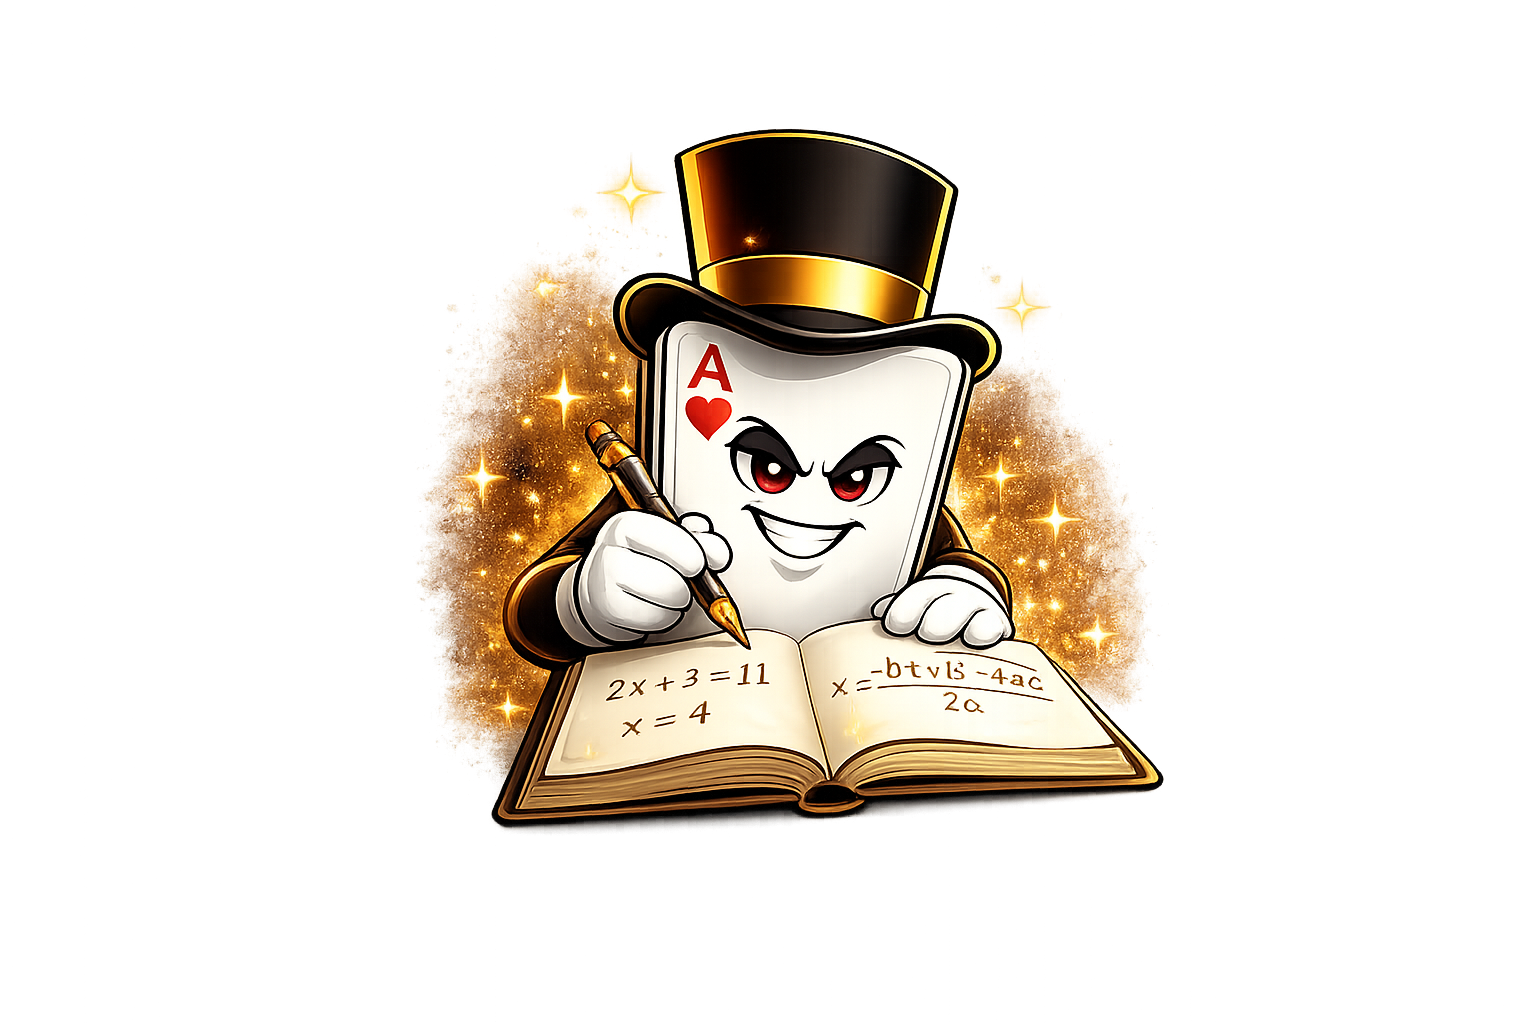
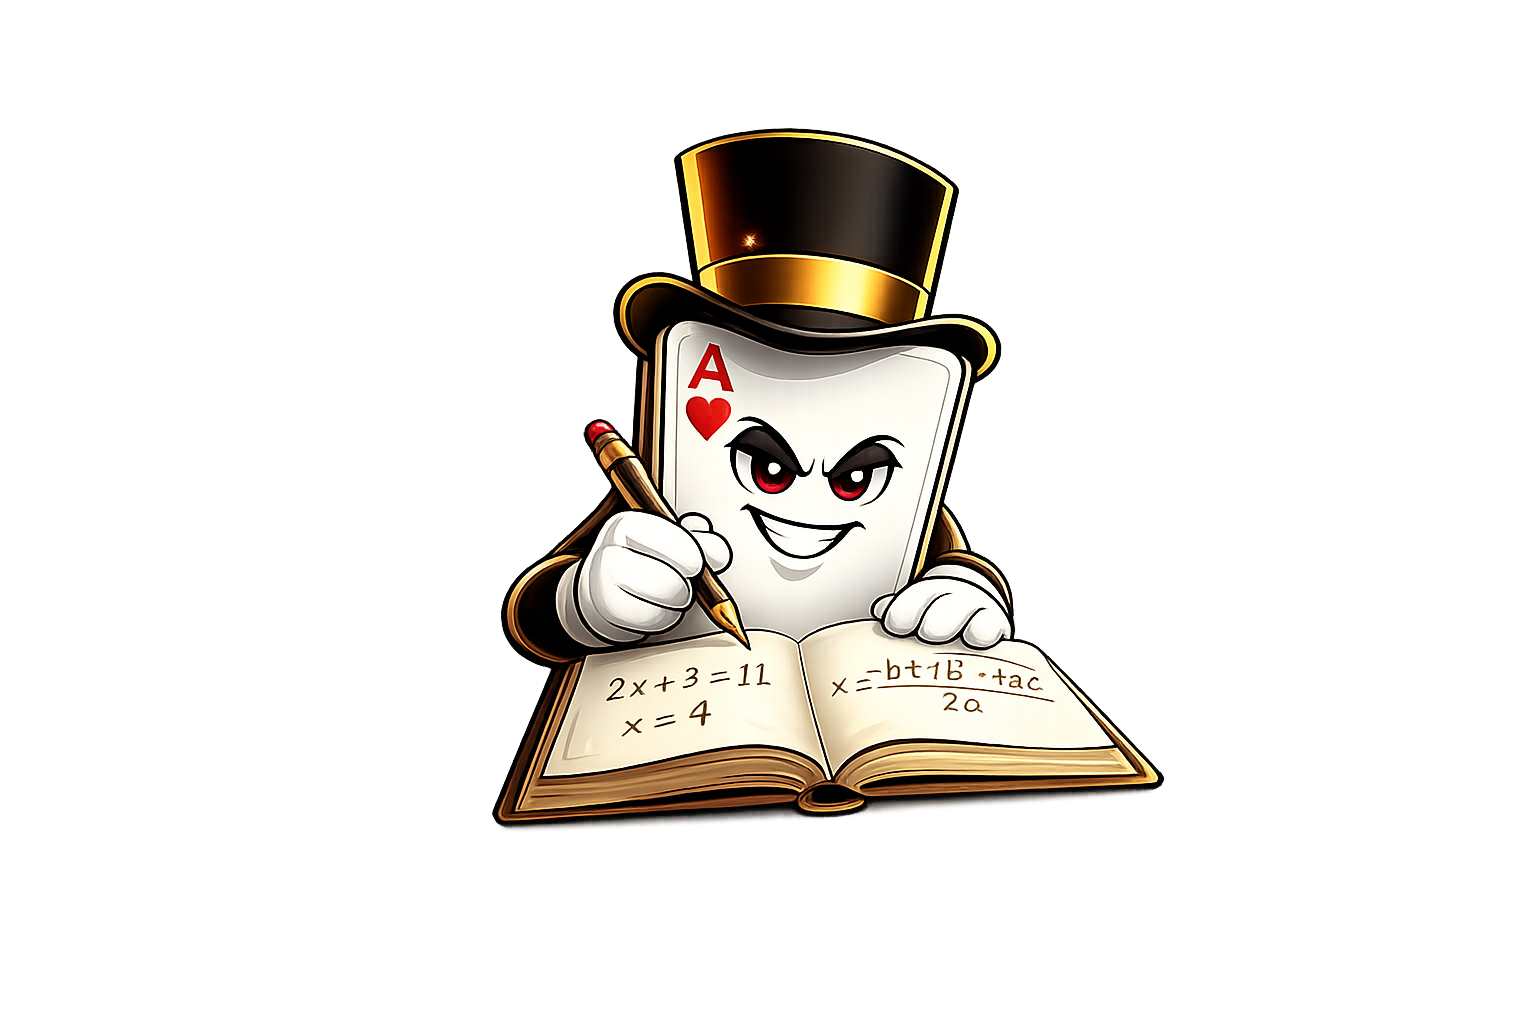
Add files via upload

diff --git a/index.html b/index.html
@@ -123,6 +123,7 @@ body{background:var(--dark);color:var(--text);font-family:'Tajawal',sans-serif;m
 .page-section.active { display: block !important; padding-bottom: 0; }
 #page_home.active { display: flex !important; }
 #page_auth.active { display: flex !important; flex-direction: column; }
+#page_sessions.active { display: flex !important; flex-direction: column; }
 #page_sessions { display: none; }
 #page_sessions.active { display: block !important; }
 
@@ -1769,7 +1770,7 @@ window.addEventListener('load', function(){
         <div style="font-family:'Cairo',sans-serif;font-weight:900;font-size:12px;color:var(--gold);margin-bottom:2px;">قيد الهاند الذكي</div>
         <div style="font-family:'Tajawal',sans-serif;font-size:11px;color:var(--muted);margin-bottom:1px;">جميع الحقوق محفوظة</div>
         <div style="font-family:'Tajawal',sans-serif;font-size:11px;color:#ffffff;margin-bottom:3px;">تصميم سلطان بن طوق المري</div>
-        <span style="font-size:10px;color:var(--red);">V5.3.2</span>
+        <span style="font-size:10px;color:var(--red);">V5.3.3</span>
         <span style="font-size:10px;color:var(--red);"> · 2026</span>
       </div>
     </div>
@@ -1794,7 +1795,7 @@ window.addEventListener('load', function(){
         <div style="font-family:'Cairo',sans-serif;font-weight:900;font-size:12px;color:var(--gold);margin-bottom:2px;">قيد الهاند الذكي</div>
         <div style="font-family:'Tajawal',sans-serif;font-size:11px;color:var(--muted);margin-bottom:1px;">جميع الحقوق محفوظة</div>
         <div style="font-family:'Tajawal',sans-serif;font-size:11px;color:#ffffff;margin-bottom:3px;">تصميم سلطان بن طوق المري</div>
-        <span style="font-size:10px;color:var(--red);">V5.3.2</span>
+        <span style="font-size:10px;color:var(--red);">V5.3.3</span>
         <span style="font-size:10px;color:var(--red);"> · 2026</span>
       </div>
     </div>
@@ -1815,7 +1816,7 @@ window.addEventListener('load', function(){
         <div style="font-family:'Cairo',sans-serif;font-weight:900;font-size:12px;color:var(--gold);margin-bottom:2px;">قيد الهاند الذكي</div>
         <div style="font-family:'Tajawal',sans-serif;font-size:11px;color:var(--muted);margin-bottom:1px;">جميع الحقوق محفوظة</div>
         <div style="font-family:'Tajawal',sans-serif;font-size:11px;color:#ffffff;margin-bottom:3px;">تصميم سلطان بن طوق المري</div>
-        <span style="font-size:10px;color:var(--red);">V5.3.2</span>
+        <span style="font-size:10px;color:var(--red);">V5.3.3</span>
         <span style="font-size:10px;color:var(--red);"> · 2026</span>
       </div>
     </div>
@@ -1850,7 +1851,7 @@ window.addEventListener('load', function(){
   <div style="text-align:center;">
     <div style="font-family:'Tajawal',sans-serif;font-size:11px;color:var(--muted);margin-bottom:2px;">جميع الحقوق محفوظة</div>
     <div style="font-family:'Tajawal',sans-serif;font-size:11px;color:#ffffff;margin-bottom:4px;">تصميم سلطان بن طوق المري</div>
-    <span style="font-size:10px;color:var(--red);">V5.3.2</span>
+    <span style="font-size:10px;color:var(--red);">V5.3.3</span>
     <span style="font-size:10px;color:var(--red);"> · 2026</span>
   </div>
 </div>
@@ -2291,14 +2292,14 @@ function toggleInfoBox(){
 </div><!-- end results_data_section -->
 
 <!-- رسالة الزائر في النتائج -->
-<div id="results_guest_msg" style="display:none;text-align:center;padding:40px 0;">
-  <div style="font-size:36px;margin-bottom:12px;">🔒</div>
+<div id="results_guest_msg" style="display:none;text-align:center;padding:24px 0 40px;">
+  <div style="width:100%;display:flex;justify-content:center;padding-bottom:10px;">
+    <img src="./character-book.png" alt="" style="width:min(62vw,260px);height:auto;object-fit:contain;filter:drop-shadow(0 6px 20px rgba(212,168,67,0.25));">
+  </div>
+  <div style="font-size:32px;margin-bottom:10px;">🔒</div>
   <div style="font-family:'Cairo',sans-serif;font-weight:900;font-size:16px;color:var(--gold);margin-bottom:8px;">سجّل دخولك لعرض النتائج</div>
   <div style="font-family:'Tajawal',sans-serif;font-size:13px;color:#888;margin-bottom:20px;line-height:1.7;">لوحة المحترفين والإحصائيات متاحة للمسجّلين فقط</div>
   <button onclick="goToAuthLogin()" class="gold-btn-press btn-premium-fx" style="background:linear-gradient(135deg,rgba(212,168,67,0.22),rgba(212,168,67,0.10));border:2px solid rgba(212,168,67,0.65);border-radius:14px;padding:12px 28px;color:var(--gold);font-family:'Cairo',sans-serif;font-weight:900;font-size:14px;cursor:pointer;position:relative;overflow:hidden;">تسجيل الدخول</button>
-  <div style="width:100%;display:flex;justify-content:center;padding-top:22px;">
-    <img src="./character-book.png" alt="" style="width:min(80vw,340px);height:auto;object-fit:contain;filter:drop-shadow(0 6px 20px rgba(212,168,67,0.25));">
-  </div>
 </div>
 
 </div><!-- end page_results -->
@@ -2435,7 +2436,7 @@ function toggleInfoBox(){
             <div style="font-family:'Tajawal',sans-serif;font-size:7px;color:var(--muted);margin-bottom:1px;">جميع الحقوق محفوظة</div>
             <div style="font-family:'Tajawal',sans-serif;font-size:7px;color:rgba(255,255,255,0.5);margin-bottom:3px;">تصميم سلطان بن طوق المري</div>
             <div style="height:1px;background:rgba(200,168,75,0.5);margin-bottom:3px;"></div>
-            <div style="font-size:7px;color:var(--red);">V5.3.2 · 2026</div>
+            <div style="font-size:7px;color:var(--red);">V5.3.3 · 2026</div>
           </div>
 
           <!-- وسط: شعار فقط -->
@@ -2485,7 +2486,7 @@ function toggleInfoBox(){
       <div style="text-align:center;">
         <div style="font-family:'Tajawal',sans-serif;font-size:11px;color:var(--muted);margin-bottom:2px;">جميع الحقوق محفوظة</div>
         <div style="font-family:'Tajawal',sans-serif;font-size:11px;color:#ffffff;margin-bottom:4px;">تصميم سلطان بن طوق المري</div>
-        <span style="font-size:10px;color:var(--red);">V5.3.2</span>
+        <span style="font-size:10px;color:var(--red);">V5.3.3</span>
         <span style="font-size:10px;color:var(--red);"> · 2026</span>
       </div>
     </div>
@@ -2635,12 +2636,15 @@ function toggleInfoBox(){
 </div><!-- end page_auth -->
 
 <!-- ══ صفحة السجل ══ -->
-<div class="page-section" id="page_sessions">
+<div class="page-section" id="page_sessions" style="display:flex;flex-direction:column;box-sizing:border-box;min-height:calc(100vh - 84px - env(safe-area-inset-bottom, 0px));min-height:calc(100dvh - 84px - env(safe-area-inset-bottom, 0px));padding-bottom:10px;">
 <div class="hdr"><div class="hdr-title">السجل</div><div class="hdr-line"></div></div>
 <div class="session-title" id="session_title_display_sess" style="display:none;padding-bottom:10px;"></div>
 
 <!-- محتوى السجل للمسجّل -->
-<div id="sessions_data_section">
+<div id="sessions_data_section" style="display:flex;flex-direction:column;flex:1;">
+  <div style="width:100%;display:flex;justify-content:center;padding:0 0 10px;">
+    <img src="./character-book.png" alt="" style="width:min(50vw,200px);height:auto;object-fit:contain;filter:drop-shadow(0 6px 20px rgba(212,168,67,0.25));">
+  </div>
   <div style="background:var(--card);border-radius:18px;padding:14px 10px 8px;margin-bottom:10px;" class="gold-frame">
     <div class="gf-corner gf-tr"></div><div class="gf-corner gf-tl"></div>
     <div class="gf-corner gf-br"></div><div class="gf-corner gf-bl"></div>
@@ -2702,14 +2706,14 @@ function toggleInfoBox(){
 </div><!-- end sessions_data_section -->
 
 <!-- رسالة الزائر في السجل -->
-<div id="sessions_guest_msg" style="display:none;text-align:center;padding:40px 0;">
-  <div style="font-size:36px;margin-bottom:12px;">🔒</div>
+<div id="sessions_guest_msg" style="display:none;flex:1;flex-direction:column;align-items:center;justify-content:center;text-align:center;padding:24px 0 10px;">
+  <div style="width:100%;display:flex;justify-content:center;padding-bottom:10px;">
+    <img src="./character-book.png" alt="" style="width:min(62vw,260px);height:auto;object-fit:contain;filter:drop-shadow(0 6px 20px rgba(212,168,67,0.25));">
+  </div>
+  <div style="font-size:32px;margin-bottom:10px;">🔒</div>
   <div style="font-family:'Cairo',sans-serif;font-weight:900;font-size:16px;color:var(--gold);margin-bottom:8px;">سجّل دخولك لعرض السجل</div>
   <div style="font-family:'Tajawal',sans-serif;font-size:13px;color:#888;margin-bottom:20px;line-height:1.7;">جولاتك المحفوظة وتقاريرك متاحة للمسجّلين فقط</div>
   <button onclick="goToAuthLogin()" class="gold-btn-press btn-premium-fx" style="background:linear-gradient(135deg,rgba(212,168,67,0.22),rgba(212,168,67,0.10));border:2px solid rgba(212,168,67,0.65);border-radius:14px;padding:12px 28px;color:var(--gold);font-family:'Cairo',sans-serif;font-weight:900;font-size:14px;cursor:pointer;position:relative;overflow:hidden;">تسجيل الدخول</button>
-  <div style="width:100%;display:flex;justify-content:center;padding-top:22px;">
-    <img src="./character-book.png" alt="" style="width:min(80vw,340px);height:auto;object-fit:contain;filter:drop-shadow(0 6px 20px rgba(212,168,67,0.25));">
-  </div>
 </div>
 
 </div><!-- end page_sessions -->
@@ -3560,6 +3564,14 @@ function toggleInfoBox(){
       <div id="sup_form_body" style="display:none;padding:0 14px 16px;">
 
         <!-- الاسم -->
+        <style>
+        #sup_name:-webkit-autofill, #sup_email:-webkit-autofill{
+          -webkit-box-shadow:0 0 0 1000px var(--inp) inset !important;
+          -webkit-text-fill-color:var(--text) !important;
+          caret-color:var(--text);
+          transition:background-color 9999s ease-in-out 0s;
+        }
+        </style>
         <div class="setting-row-label" style="color:var(--gold);margin-bottom:6px;text-align:right;">الاسم</div>
         <input id="sup_name" type="text" placeholder="اسمك" maxlength="40"
           style="width:100%;background:var(--inp);color:var(--text);border:1.5px solid var(--inp-border);border-radius:10px;padding:11px 14px;font-family:'Tajawal',sans-serif;font-size:16px;font-weight:700;outline:none;text-align:right;direction:rtl;margin-bottom:12px;min-height:44px;box-sizing:border-box;color-scheme:dark;">
@@ -3572,7 +3584,7 @@ function toggleInfoBox(){
         <!-- نوع الدعم - dropdown -->
         <div class="setting-row-label" style="color:var(--gold);margin-bottom:8px;text-align:right;">نوع الطلب <span style="color:var(--muted);font-size:11px;">(اختياري)</span></div>
         <div style="position:relative;margin-bottom:12px;">
-          <select id="sup_type" onchange="this._disp.textContent=this.options[this.selectedIndex].text"
+          <select id="sup_type" onchange="var d=document.getElementById('sup_type_disp');d.textContent=this.options[this.selectedIndex].text;d.style.color=this.value?'var(--text)':'var(--muted)';"
             style="display:none;">
             <option value="">— اختر نوع الطلب</option>
             <option value="technical">🔧 دعم فني</option>
@@ -3623,7 +3635,7 @@ function toggleInfoBox(){
           <div style="font-family:'Cairo',sans-serif;font-weight:900;font-size:13px;color:var(--gold);margin-bottom:3px;">قيد الهاند الذكي</div>
           <div style="font-family:'Tajawal',sans-serif;font-size:11px;color:var(--muted);margin-bottom:2px;">جميع الحقوق محفوظة</div>
           <div style="font-family:'Tajawal',sans-serif;font-size:11px;color:#ffffff;margin-bottom:4px;">تصميم سلطان بن طوق المري</div>
-          <span class="cr-version" style="font-size:10px;color:var(--red);">V5.3.2</span>
+          <span class="cr-version" style="font-size:10px;color:var(--red);">V5.3.3</span>
           <span style="font-size:10px;color:var(--red);"> · 2026</span>
         </div>
       </div>
@@ -7184,7 +7196,7 @@ function rtSubmit(){
     'الجوانب: ' + tagStr + '\n' +
     'التعليق: ' + (comment || 'لا يوجد') + '\n' +
     'التاريخ: ' + date + '\n\n' +
-    'Smart Hand Score V5.3.2'
+    'Smart Hand Score V5.3.3'
   );
   var subject = encodeURIComponent('تقييم — ' + stars + ' نجوم');
   var mailtoLink = 'mailto:[email redacted]?subject=' + subject + '&body=' + mailBody;
@@ -7349,7 +7361,7 @@ document.getElementById('settings_panel').addEventListener('transitionend', _upd
 
 <script>
 /* ═══════════════════════════════════════════════
-   AUTH SYSTEM — HandCards V5.3.2
+   AUTH SYSTEM — HandCards V5.3.3
    البيانات تُحفظ في localStorage تحت مفتاح hc_auth
 ═══════════════════════════════════════════════ */
 
@@ -8152,8 +8164,8 @@ function updateGuestBars(isLoggedIn) {
   var sGuest = document.getElementById('sessions_guest_msg');
   if(rData)  rData.style.display  = isLoggedIn ? 'block' : 'none';
   if(rGuest) rGuest.style.display = isLoggedIn ? 'none'  : 'block';
-  if(sData)  sData.style.display  = isLoggedIn ? 'block' : 'none';
-  if(sGuest) sGuest.style.display = isLoggedIn ? 'none'  : 'block';
+  if(sData)  sData.style.display  = isLoggedIn ? 'flex' : 'none';
+  if(sGuest) sGuest.style.display = isLoggedIn ? 'none'  : 'flex';
 
   // زر الحفظ — يُعطّل للزائر
   var btnSave = document.getElementById('btn_save_session');
@@ -8457,12 +8469,13 @@ function supSubmit(){
 
   // إرسال عبر mailto كاحتياطي فعّال
   var typeLabel = {'technical':'دعم فني','suggestion':'مقترح','note':'ملاحظة','complaint':'شكوى'}[type] || 'عام';
-  var subject = encodeURIComponent('طلب دعم HandCards V5.3.2 — ' + typeLabel);
+  var subject = encodeURIComponent('طلب دعم — ' + typeLabel);
   var body = encodeURIComponent(
     'الاسم: ' + name + '\n' +
     'البريد: ' + email + '\n' +
     'نوع الطلب: ' + typeLabel + '\n\n' +
-    'الرسالة:\n' + msg
+    'الرسالة:\n' + msg + '\n\n' +
+    'Smart Hand Score V5.3.3'
   );
   window.location.href = 'mailto:[email redacted]?subject=' + subject + '&body=' + body;
 
@@ -8477,7 +8490,7 @@ function supSubmit(){
     ['sup_name','sup_email','sup_msg'].forEach(function(id){
       var el = document.getElementById(id); if(el) el.value = '';
     });
-    var t = document.getElementById('sup_type'); if(t){ t.value=''; } var td=document.getElementById('sup_type_disp'); if(td) td.textContent='— اختر نوع الطلب';
+    var t = document.getElementById('sup_type'); if(t){ t.value=''; } var td=document.getElementById('sup_type_disp'); if(td){ td.textContent='— اختر نوع الطلب'; td.style.color='var(--muted)'; }
     var c = document.getElementById('sup_msg_count'); if(c) c.textContent = '٠ / ٣٠٠';
     if(btn)  btn.style.display  = '';
     if(done) done.style.display = 'none';
@@ -8521,7 +8534,7 @@ function shareReport(){
 
   lines.push('');
   lines.push('─────────────────────');
-  lines.push('HandCards V5.3.2 · قيد الهاند الذكي');
+  lines.push('HandCards V5.3.3 · قيد الهاند الذكي');
 
   var text = lines.join('\n');
 
@@ -8805,7 +8818,7 @@ function shareCertText(){
     intro + ' بأن اللاعب ' + fullName + '\n' +
     bodyText + '\n\n' +
     'قيد الهاند الذكي · جميع الحقوق محفوظة\n' +
-    'تصميم سلطان بن طوق المري · V5.3.2 · 2026';
+    'تصميم سلطان بن طوق المري · V5.3.3 · 2026';
 
   if(navigator.share){
     navigator.share({ title: 'شهادة محترف — ' + fullName, text: text })

diff --git a/service-worker.js b/service-worker.js
@@ -1,6 +1,6 @@
 /* Smart Hand Score — Service Worker */
 /* عند كل رفع نسخة جديدة من التطبيق: غيّر رقم CACHE أدناه (مثلاً v4.10) حتى تُمسح النسخة القديمة من أجهزة المستخدمين تلقائياً */
-const CACHE = 'smart-hand-score-v5.3.2';
+const CACHE = 'smart-hand-score-v5.3.3';
 
 const APP_SHELL = [
   './',